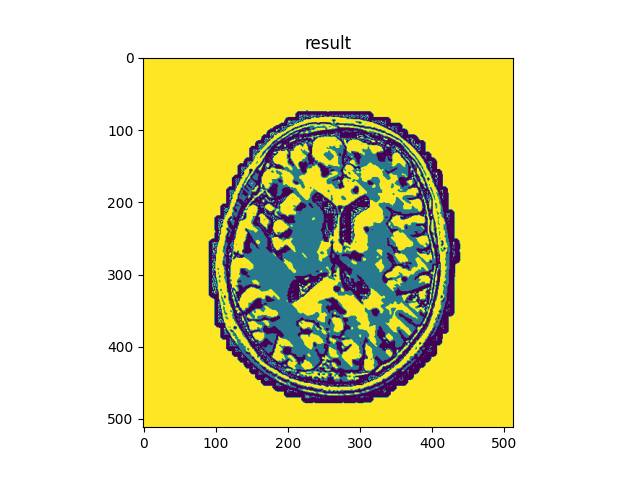
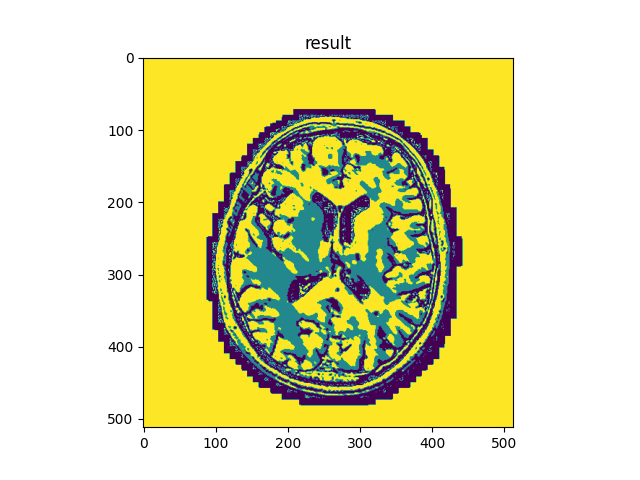
Iter param, bias loss and more results

diff --git a/main.py b/main.py
@@ -23,12 +23,13 @@ if __name__ == '__main__':
     parser = argparse.ArgumentParser()
 
 
-    parser.add_argument("--k", type = int)
-    parser.add_argument("--method", choices=["fcm","fgfcm", "enfcm", "bias_fcm", "fcm_local", "fcm_s1"])
-    parser.add_argument("--image", type=validate)
-    parser.add_argument("--interactive", action="store_true")
-    parser.add_argument("--q", default=1.6, type=float)
-    parser.add_argument("--save", action="store_true")
+    parser.add_argument("--k", type = int, help="number of segments in the image")
+    parser.add_argument("--method", choices=["fcm","fgfcm", "enfcm", "bias_fcm", "fcm_local", "fcm_s1"], help="choose your flavor of fcm")
+    parser.add_argument("--image", type=validate, help="path to the image file")
+    # parser.add_argument("--interactive", action="store_true")
+    parser.add_argument("--q", default=1.6, type=float, help="fuzziness factor")
+    parser.add_argument("--save", action="store_true", help="files will be saved in results folder with name {file_name}_{method}.png")
+    parser.add_arguments("--iter", default = 20, type = int, help="Number of iterations")
 
     args = parser.parse_args()
     segments = args.k
@@ -36,6 +37,13 @@ if __name__ == '__main__':
     image_file = args.image
     q = args.q
     save = args.save
+    iter = args.iter
+
+    if q <= 1:
+        sys.exit("ERROR: q should be greater than 1, 1 is just k_means, will give error")
+
+    if iter <= 0:
+        sys.exit("ERROR: number of iterations should be greater than 0")
 
     extension = os.path.splitext(os.path.basename( image_file ))[1]
     if extension in [".png", ".jpeg", ".jpg"]:
@@ -57,17 +65,17 @@ if __name__ == '__main__':
 
 
     if method == 'fcm':
-        result, cost = fcm.c_means(image, imagemask, segments, q)
+        result, cost = fcm.c_means(image, imagemask, segments, q, iter)
     elif method == "fgfcm":
-        result, cost = fgfcm.c_means(image, imagemask, segments, q)
+        result, cost = fgfcm.c_means(image, imagemask, segments, q, iter)
     elif method == 'enfcm':
-        result, cost = enfcm.c_means(image, imagemask, segments, q)
+        result, cost = enfcm.c_means(image, imagemask, segments, q, iter)
     elif method == 'bias_fcm':
-        result, cost = bias_fcm.c_means(image, imagemask, segments, q)
+        result, cost = bias_fcm.c_means(image, imagemask, segments, q, iter)
     elif method == 'fcm_local':
-        result, cost = fcm_local.c_means(image, imagemask, segments, q)
+        result, cost = fcm_local.c_means(image, imagemask, segments, q, iter)
     elif method == 'fcm_s1':
-        result, cost = fcm_s1.c_means(image, imagemask, segments, q)
+        result, cost = fcm_s1.c_means(image, imagemask, segments, q, iter)
     else:
         sys.exit("ERROR: method not supported")
 

diff --git a/bias_fcm.py b/bias_fcm.py
@@ -12,7 +12,7 @@ def J_fun(n, m, memberships,pixels,neighbourhood, bias, q, segments,centers):
     t1 = convolve2d(b, neighbourhood, "same")
     t1 = t1.reshape((-1, 1))
     t2 = convolve2d(b ** 2, neighbourhood, "same")
-    t2 = t1.reshape((-1, 1))
+    t2 = t2.reshape((-1, 1))
     t3 = np.zeros(pixels.shape)
 
     w = sum(sum(neighbourhood))
@@ -119,7 +119,7 @@ def update_memberships(n, m, neighbourhood, pixels, centers, bias, segments, q, 
     return memberships
 
 
-def c_means(image, imagemask, k, q = 1.6):
+def c_means(image, imagemask, k, q = 1.6, iter = 20):
 
     image_rows, image_cols = image.shape
     image = imagemask * image
@@ -137,15 +137,14 @@ def c_means(image, imagemask, k, q = 1.6):
 
 
     bInit = np.ones(pixels.shape) * imagemask
-    neighbourhood = gauss(10)
+    neighbourhood = gauss(20)
 
-    maxIters = 20 
     u = uInit
     J = 0
     cost = []
     bias = bInit
 
-    for i in range(maxIters):
+    for i in range(iter):
         u = update_memberships(image_rows, image_cols, neighbourhood,pixels,centers,bias, k,q, imagemask)
         centers = class_means(image_rows, image_cols, u,pixels,neighbourhood, bias, q, k, imagemask)
         bias = update_bias(image_rows, image_cols, neighbourhood, pixels, u, centers, k, q, imagemask)

diff --git a/fgfcm.py b/fgfcm.py
@@ -48,7 +48,7 @@ def update_memberships(pixels, centers, segments, q):
     return memberships
 
 
-def c_means(image, imagemask, k, q = 1.6):
+def c_means(image, imagemask, k, q = 1.6, iter = 20):
     avg_img = np.float32(np.zeros(image.shape))
 
     for i in range(image.shape[0]):
@@ -68,6 +68,8 @@ def c_means(image, imagemask, k, q = 1.6):
                 sum += (image[i][j+1]-image[i][j])**2
                 count += 1
             variance = sum/count
+            if variance == 0: 
+                variance = 1e-10
             den = 0
             if i != 0 :
                 S_ij = np.exp(-1*((image[i-1][j]-image[i][j])**2)/(2*variance))*np.exp(-1/3)
@@ -102,13 +104,12 @@ def c_means(image, imagemask, k, q = 1.6):
 
     uInit = np.random.rand(values.shape[0],centers.shape[0])
     uInit = uInit/uInit.sum(axis=1)[:,None]
-    maxIters = 20
     u = uInit
     J = 0
     cost = []
     counts = counts.reshape((-1,1))
 
-    for i in range(maxIters):
+    for i in range(iter):
         centers = class_means(u,values,q,counts)
         u = update_memberships(values,centers,k,q)
         J = J_fun(u,values.reshape((-1,1)),centers.reshape((-1,1)),q,counts.reshape((-1,1)))

diff --git a/fcm_local.py b/fcm_local.py
@@ -1,3 +1,4 @@
+# Change the cost function 
 import mat73
 from matplotlib import pyplot as plt
 import numpy as np
@@ -65,7 +66,7 @@ def update_memberships(image_rows, image_cols, pixels, memberships,  centers, se
     return memberships
 
 
-def c_means(image, imagemask, k, q = 1.6):
+def c_means(image, imagemask, k, q = 1.6, iter = 20):
     image_rows, image_cols = image.shape
 
     pixels = np.float32(image.reshape((-1,1)))
@@ -78,12 +79,11 @@ def c_means(image, imagemask, k, q = 1.6):
     for i in range(pixels.shape[0]):
         uInit[i,labels[i]] = 1
 
-    maxIters = 10 
     u = uInit
     J = 0
     cost = []
 
-    for i in range(maxIters):
+    for i in range(iter):
         u = update_memberships(image_rows, image_cols, pixels,u, centers,k,q)
         centers = class_means(u,pixels,q)
         J = J_fun(u,pixels,centers,q)

diff --git a/enfcm.py b/enfcm.py
@@ -45,7 +45,7 @@ def update_memberships(pixels, centers, segments, q):
      
     return memberships
 
-def c_means(image, imagemask,k, q = 1.6):
+def c_means(image, imagemask,k, q = 1.6, iter = 20):
     avg_img = np.zeros(image.shape)
 
     for i in range(image.shape[0]):
@@ -84,12 +84,12 @@ def c_means(image, imagemask,k, q = 1.6):
 
     uInit = np.random.rand(values.shape[0],centers.shape[0])
     uInit = uInit/uInit.sum(axis=1)[:,None]
-    maxIters = 20
     u = uInit
     J = 0
     counts = counts.reshape((-1,1))
     cost = []
-    for i in range(maxIters):
+
+    for i in range(iter):
         centers = class_means(u,values,q,counts)
         u = update_memberships(values,centers,k,q)
         J = J_fun(u,values.reshape((-1,1)),centers.reshape((-1,1)),q,counts.reshape((-1,1)))

diff --git a/fcm_s1.py b/fcm_s1.py
@@ -44,7 +44,7 @@ def update_memberships(pixels, centers, segments, q,avg_pixels,alpha):
     return memberships
 
 
-def c_means(image, imagemask, k, q = 1.6):
+def c_means(image, imagemask, k, q = 1.6, iter = 20):
     avg_img = np.zeros(image.shape)
 
     for i in range(image.shape[0]):
@@ -80,13 +80,12 @@ def c_means(image, imagemask, k, q = 1.6):
     uInit = np.random.rand(pixels.shape[0],centers.shape[0])
     uInit = uInit/uInit.sum(axis=1)[:,None]
 
-    maxIters = 20
     u = uInit
     J = 0
     cost = []
     alpha = 0.2
 
-    for i in range(maxIters):
+    for i in range(iter):
         centers = class_means(u,pixels,q,avg_pixels,alpha)
         u = update_memberships(pixels,centers,k,q,avg_pixels,alpha)
         J = J_fun(u,pixels,centers,q,avg_pixels,alpha)   

diff --git a/fcm.py b/fcm.py
@@ -50,7 +50,7 @@ def update_memberships(pixels, centers, segments, q):
 # imagemask = data_dict["imageMask"]
 
 
-def c_means(image, imagemask, k, q = 1.6):
+def c_means(image, imagemask, k, q = 1.6, iter = 20):
 
     pixels = np.float32(image.reshape((-1,1)))
     criteria = (cv2.TERM_CRITERIA_EPS + cv2.TERM_CRITERIA_MAX_ITER, 100, 0.85)
@@ -62,13 +62,12 @@ def c_means(image, imagemask, k, q = 1.6):
     for i in range(pixels.shape[0]):
         uInit[i,labels[i]] = 1
 
-    maxIters = 20 
     u = uInit
     J = 0
 
     cost = []
 
-    for i in range(maxIters):
+    for i in range(iter):
         u = update_memberships(pixels,centers,k,q)
         centers = class_means(u,pixels,q)
         J = J_fun(u,pixels,centers,q)
